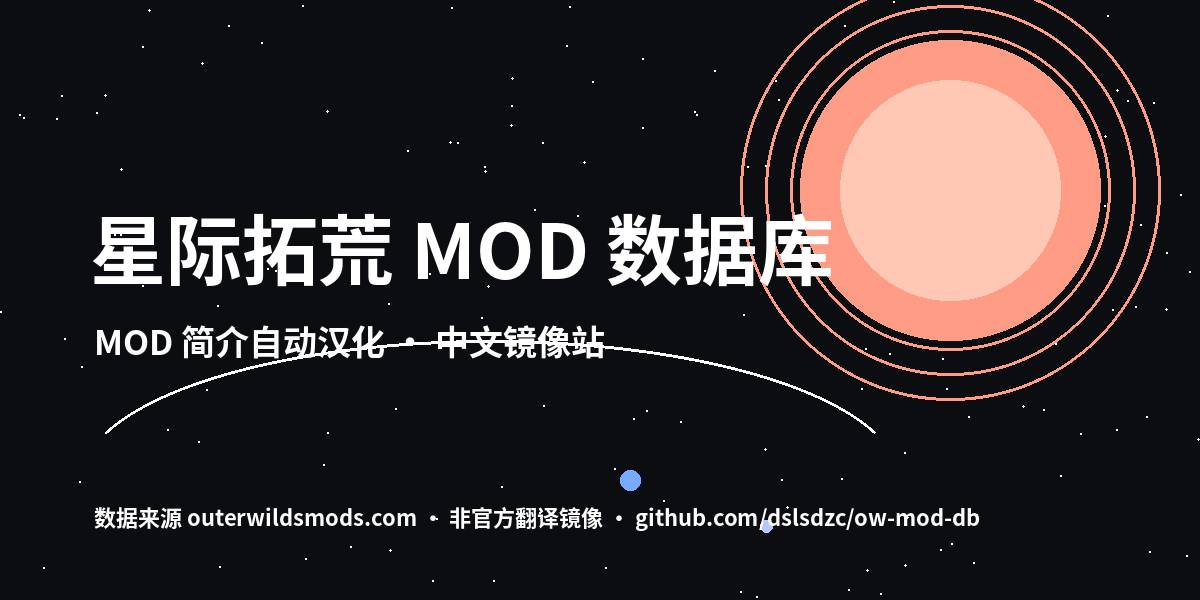
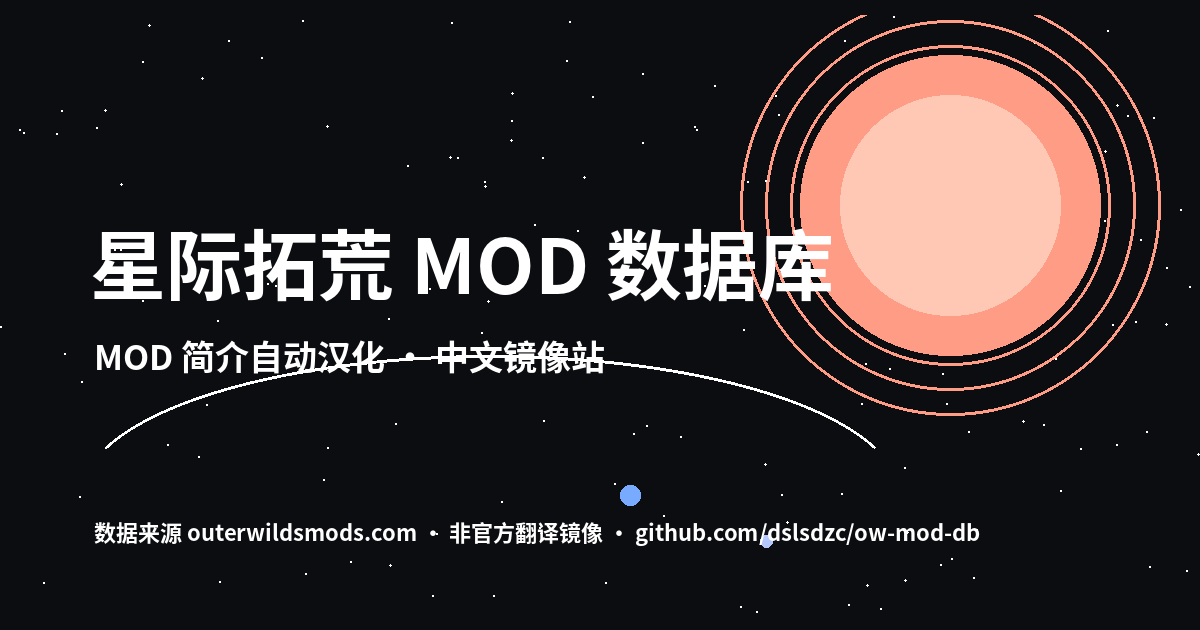
feat: 分享卡片补全(og:site_name/locale/twitter 显式标签/JSON-LD/1200x630 og.png)与详情页分享按钮

diff --git a/site/js/app.js b/site/js/app.js
@@ -715,6 +715,26 @@ function initReadme(mod) {
   })();
 }
 
+function initShare(mod) {
+  const btn = document.getElementById("share-btn");
+  if (!btn) return;
+  const label = btn.textContent;
+  btn.addEventListener("click", async () => {
+    const url = location.href.split("#")[0];
+    const title = `${mod.name} — 星际拓荒 MOD 数据库`;
+    if (navigator.share) {
+      try { await navigator.share({ title, url }); return; } catch (e) { /* 取消或失败则走复制 */ }
+    }
+    try {
+      await navigator.clipboard.writeText(url);
+      btn.textContent = window.t ? t("detail.copied") : "已复制链接";
+      setTimeout(() => { btn.textContent = label; }, 2000);
+    } catch (e) {
+      window.prompt(window.t ? t("detail.share") : "分享", url);
+    }
+  });
+}
+
 function renderDetail(mods) {
   const params = new URLSearchParams(location.search);
   const pathHit = location.pathname.match(/\/mod\/([^/]+)\.html$/);
@@ -750,6 +770,7 @@ function renderDetail(mods) {
       </div>
       <div class="buttons-second">
         ${mod.slug ? `<a class="secondary" href="https://outerwildsmods.com/mods/${encodeURIComponent(mod.slug)}/downloads/#downloads" target="_blank" rel="noopener">下载统计</a>` : ""}
+        <button class="secondary" type="button" id="share-btn">${window.t ? t("detail.share") : "分享"}</button>
         <a class="secondary" href="${reportUrl}" target="_blank" rel="noopener">${window.t ? t("detail.reportIssue") : "报告翻译问题"}</a>
       </div>
       ${mod.description ? `<div class="section"><h3>简介</h3><div class="readme" id="desc-md"></div></div>` : ""}
@@ -790,6 +811,7 @@ function renderDetail(mods) {
   initReleases(mod);
   initPatchBlock(mod);
   initComments(mod);
+  initShare(mod);
 }
 
 (function initToTop() {

diff --git a/site/index.html b/site/index.html
@@ -4,10 +4,23 @@
 <meta charset="utf-8">
 <meta name="viewport" content="width=device-width, initial-scale=1">
 <link rel="icon" href="favicon.svg" type="image/svg+xml">
+<!-- OG:START -->
+<meta property="og:site_name" content="星际拓荒 MOD 数据库">
+<meta property="og:locale" content="zh_CN">
 <meta property="og:title" content="星际拓荒 MOD 数据库">
-<meta property="og:description" content="413 个 MOD 简介自动汉化 · 中文镜像站">
-<meta property="og:image" content="https://dslsdzc.github.io/ow-mod-db/og.png">
+<meta property="og:description" content="星际拓荒 MOD 简介、更新说明与 README 自动汉化的中文镜像站,可配合 OWMM 一键安装。">
 <meta property="og:type" content="website">
+<meta property="og:url" content="https://dslsdzc.github.io/ow-mod-db/">
+<meta property="og:image" content="https://dslsdzc.github.io/ow-mod-db/og.png">
+<meta property="og:image:width" content="1200">
+<meta property="og:image:height" content="630">
+<meta property="og:image:alt" content="星际拓荒 MOD 数据库">
+<meta name="twitter:card" content="summary_large_image">
+<meta name="twitter:title" content="星际拓荒 MOD 数据库">
+<meta name="twitter:description" content="星际拓荒 MOD 简介、更新说明与 README 自动汉化的中文镜像站,可配合 OWMM 一键安装。">
+<meta name="twitter:image" content="https://dslsdzc.github.io/ow-mod-db/og.png">
+<link rel="canonical" href="https://dslsdzc.github.io/ow-mod-db/">
+<!-- OG:END -->
 <title>星际拓荒 MOD 数据库</title>
 <script type="speculationrules">
 {"prerender":[{"where":{"href_matches":["./mod.html*","./mod/*"]},"eagerness":"moderate"}]}

diff --git a/site/mods.html b/site/mods.html
@@ -4,9 +4,23 @@
 <meta charset="utf-8">
 <meta name="viewport" content="width=device-width, initial-scale=1">
 <link rel="icon" href="favicon.svg" type="image/svg+xml">
+<!-- OG:START -->
+<meta property="og:site_name" content="星际拓荒 MOD 数据库">
+<meta property="og:locale" content="zh_CN">
 <meta property="og:title" content="全部 MOD — 星际拓荒 MOD 数据库">
-<meta property="og:image" content="https://dslsdzc.github.io/ow-mod-db/og.png">
+<meta property="og:description" content="浏览全部星际拓荒 MOD:热度与更新时间排序,支持中英文名称搜索与标签筛选。">
 <meta property="og:type" content="website">
+<meta property="og:url" content="https://dslsdzc.github.io/ow-mod-db/mods.html">
+<meta property="og:image" content="https://dslsdzc.github.io/ow-mod-db/og.png">
+<meta property="og:image:width" content="1200">
+<meta property="og:image:height" content="630">
+<meta property="og:image:alt" content="星际拓荒 MOD 数据库">
+<meta name="twitter:card" content="summary_large_image">
+<meta name="twitter:title" content="全部 MOD — 星际拓荒 MOD 数据库">
+<meta name="twitter:description" content="浏览全部星际拓荒 MOD:热度与更新时间排序,支持中英文名称搜索与标签筛选。">
+<meta name="twitter:image" content="https://dslsdzc.github.io/ow-mod-db/og.png">
+<link rel="canonical" href="https://dslsdzc.github.io/ow-mod-db/mods.html">
+<!-- OG:END -->
 <title>全部 MOD — 星际拓荒 MOD 数据库</title>
 <script type="speculationrules">
 {"prerender":[{"where":{"href_matches":["./mod.html*","./mod/*"]},"eagerness":"moderate"}]}

diff --git a/site/jams.html b/site/jams.html
@@ -4,9 +4,23 @@
 <meta charset="utf-8">
 <meta name="viewport" content="width=device-width, initial-scale=1">
 <link rel="icon" href="favicon.svg" type="image/svg+xml">
+<!-- OG:START -->
+<meta property="og:site_name" content="星际拓荒 MOD 数据库">
+<meta property="og:locale" content="zh_CN">
 <meta property="og:title" content="历届 Game Jam — 星际拓荒 MOD 数据库">
-<meta property="og:image" content="https://dslsdzc.github.io/ow-mod-db/og.png">
+<meta property="og:description" content="历届星际拓荒 Game Jam 作品聚合与中文介绍,内含 2026 Game Jam 信息页。">
 <meta property="og:type" content="website">
+<meta property="og:url" content="https://dslsdzc.github.io/ow-mod-db/jams.html">
+<meta property="og:image" content="https://dslsdzc.github.io/ow-mod-db/og.png">
+<meta property="og:image:width" content="1200">
+<meta property="og:image:height" content="630">
+<meta property="og:image:alt" content="星际拓荒 MOD 数据库">
+<meta name="twitter:card" content="summary_large_image">
+<meta name="twitter:title" content="历届 Game Jam — 星际拓荒 MOD 数据库">
+<meta name="twitter:description" content="历届星际拓荒 Game Jam 作品聚合与中文介绍,内含 2026 Game Jam 信息页。">
+<meta name="twitter:image" content="https://dslsdzc.github.io/ow-mod-db/og.png">
+<link rel="canonical" href="https://dslsdzc.github.io/ow-mod-db/jams.html">
+<!-- OG:END -->
 <title>历届 Game Jam — 星际拓荒 MOD 数据库</title>
 <script type="speculationrules">
 {"prerender":[{"where":{"href_matches":["./mod.html*","./mod/*"]},"eagerness":"moderate"}]}

diff --git a/site/mod.html b/site/mod.html
@@ -4,9 +4,23 @@
 <meta charset="utf-8">
 <meta name="viewport" content="width=device-width, initial-scale=1">
 <link rel="icon" href="favicon.svg" type="image/svg+xml">
+<!-- OG:START -->
+<meta property="og:site_name" content="星际拓荒 MOD 数据库">
+<meta property="og:locale" content="zh_CN">
 <meta property="og:title" content="MOD 详情 — 星际拓荒 MOD 数据库">
-<meta property="og:image" content="https://dslsdzc.github.io/ow-mod-db/og.png">
+<meta property="og:description" content="星际拓荒 MOD 详情:中文简介、版本历史、README 与一键安装。">
 <meta property="og:type" content="website">
+<meta property="og:url" content="https://dslsdzc.github.io/ow-mod-db/mods.html">
+<meta property="og:image" content="https://dslsdzc.github.io/ow-mod-db/og.png">
+<meta property="og:image:width" content="1200">
+<meta property="og:image:height" content="630">
+<meta property="og:image:alt" content="星际拓荒 MOD 数据库">
+<meta name="twitter:card" content="summary_large_image">
+<meta name="twitter:title" content="MOD 详情 — 星际拓荒 MOD 数据库">
+<meta name="twitter:description" content="星际拓荒 MOD 详情:中文简介、版本历史、README 与一键安装。">
+<meta name="twitter:image" content="https://dslsdzc.github.io/ow-mod-db/og.png">
+<link rel="canonical" href="https://dslsdzc.github.io/ow-mod-db/mods.html">
+<!-- OG:END -->
 <title>MOD 详情 — 星际拓荒 MOD 数据库</title>
 <script type="speculationrules">
 {"prerender":[{"where":{"href_matches":["./mod.html*","./mod/*"]},"eagerness":"moderate"}]}

diff --git a/site/mod-manager.html b/site/mod-manager.html
@@ -4,9 +4,23 @@
 <meta charset="utf-8">
 <meta name="viewport" content="width=device-width, initial-scale=1">
 <link rel="icon" href="favicon.svg" type="image/svg+xml">
+<!-- OG:START -->
+<meta property="og:site_name" content="星际拓荒 MOD 数据库">
+<meta property="og:locale" content="zh_CN">
 <meta property="og:title" content="Mod Manager — 星际拓荒 MOD 数据库">
-<meta property="og:image" content="https://dslsdzc.github.io/ow-mod-db/og.png">
+<meta property="og:description" content="Outer Wilds Mod Manager(OWMM)使用指南与下载。">
 <meta property="og:type" content="website">
+<meta property="og:url" content="https://dslsdzc.github.io/ow-mod-db/mod-manager.html">
+<meta property="og:image" content="https://dslsdzc.github.io/ow-mod-db/og.png">
+<meta property="og:image:width" content="1200">
+<meta property="og:image:height" content="630">
+<meta property="og:image:alt" content="星际拓荒 MOD 数据库">
+<meta name="twitter:card" content="summary_large_image">
+<meta name="twitter:title" content="Mod Manager — 星际拓荒 MOD 数据库">
+<meta name="twitter:description" content="Outer Wilds Mod Manager(OWMM)使用指南与下载。">
+<meta name="twitter:image" content="https://dslsdzc.github.io/ow-mod-db/og.png">
+<link rel="canonical" href="https://dslsdzc.github.io/ow-mod-db/mod-manager.html">
+<!-- OG:END -->
 <title>Mod Manager — 星际拓荒 MOD 数据库</title>
 <link rel="preconnect" href="https://ow-mods.github.io">
 <link rel="stylesheet" href="css/style.css">

diff --git a/site/css/style.css b/site/css/style.css
@@ -74,10 +74,10 @@ section h2 { font-size: 1.25rem; margin: 2rem 0 1rem; }
                      white-space: nowrap; }   /* 按钮文字不折行,整体换行 */
 .detail .buttons a.secondary { background: rgba(255,255,255,.12); color: #fff; }
 .buttons-second { display: flex; margin-top: .5rem; }
-.buttons-second a { padding: .35rem .9rem; border-radius: 6px; text-decoration: none;
+.buttons-second a, .buttons-second button { padding: .35rem .9rem; border-radius: 6px; text-decoration: none;
                     background: rgba(255,255,255,.07); color: rgba(255,255,255,.75); font-size: .85rem;
-                    border: 1px solid rgba(255,255,255,.15); }
-.buttons-second a:hover { border-color: #ff9c86; color: #fff; }
+                    border: 1px solid rgba(255,255,255,.15); cursor: pointer; font-family: inherit; }
+.buttons-second a:hover, .buttons-second button:hover { border-color: #ff9c86; color: #fff; }
 .detail .section { border: 1px solid rgba(255,255,255,.12); border-radius: 10px;
                    padding: 1rem 1.25rem; margin-top: 1.25rem; background: rgba(255,255,255,.04); }
 .detail .section h3 { margin: 0 0 .5rem; font-size: 1rem; }

diff --git a/site/js/i18n.js b/site/js/i18n.js
@@ -36,6 +36,8 @@ window.I18N = {
     "mods.count": "{n} / {m} 个 MOD",
     "mods.none": "没有匹配的 MOD",
     "detail.reportIssue": "报告翻译问题",
+    "detail.share": "分享",
+    "detail.copied": "已复制链接",
     "meta.downloads": "{n} 次下载",
     "meta.updatedAt": "更新于 {d}",
     "jams.title": "历届 Game Jam",
@@ -75,6 +77,8 @@ window.I18N = {
     "mods.count": "{n} / {m} 個のMOD",
     "mods.none": "該当するMODがありません",
     "detail.reportIssue": "翻訳の問題を報告",
+    "detail.share": "共有",
+    "detail.copied": "リンクをコピーしました",
     "meta.downloads": "{n} 回DL",
     "meta.updatedAt": "更新 {d}",
     "jams.title": "歴代 Game Jam",

diff --git a/scripts/build.py b/scripts/build.py
@@ -125,10 +125,65 @@ def deploy_site(site_dir: Path, dist_dir: Path) -> None:
 _MOD_PAGE_MARKERS = (
     '<meta name="viewport" content="width=device-width, initial-scale=1">',
     "<title>MOD 详情 — 星际拓荒 MOD 数据库</title>",
-    '<meta property="og:title" content="MOD 详情 — 星际拓荒 MOD 数据库">',
-    f'<meta property="og:image" content="{SITE_URL}/og.png">',
+    "<!-- OG:START -->",
+    "<!-- OG:END -->",
     '<main id="detail"></main>',
 )
+
+
+def meta_block(*, title: str, description: str, url: str, image: str, image_alt: str,
+               image_size: tuple[int, int] | None = None) -> str:
+    """OG/Twitter 卡片与 canonical 的完整元数据块。
+
+    依据 2026 各平台现状: og:* 为主, 显式 twitter:title/description/image(X 的 og 回退不稳);
+    image_size 仅在尺寸确知(站点自有的 1200x630 og.png)时声明, 避免错误标注作者缩略图。
+    """
+    lines = [
+        "<!-- OG:START -->",
+        '<meta property="og:site_name" content="星际拓荒 MOD 数据库">',
+        '<meta property="og:locale" content="zh_CN">',
+        f'<meta property="og:title" content="{html_escape(title)}">',
+        f'<meta property="og:description" content="{html_escape(description)}">',
+        '<meta property="og:type" content="website">',
+        f'<meta property="og:url" content="{html_escape(url)}">',
+        f'<meta property="og:image" content="{html_escape(image)}">',
+    ]
+    if image_size:
+        lines += [f'<meta property="og:image:width" content="{image_size[0]}">',
+                  f'<meta property="og:image:height" content="{image_size[1]}">']
+    lines += [
+        f'<meta property="og:image:alt" content="{html_escape(image_alt)}">',
+        '<meta name="twitter:card" content="summary_large_image">',
+        f'<meta name="twitter:title" content="{html_escape(title)}">',
+        f'<meta name="twitter:description" content="{html_escape(description)}">',
+        f'<meta name="twitter:image" content="{html_escape(image)}">',
+        f'<link rel="canonical" href="{html_escape(url)}">',
+        "<!-- OG:END -->",
+    ]
+    return "\n".join(lines)
+
+
+def mod_jsonld(*, name: str, author: str, version: str, download_url: str,
+               page_url: str, image: str) -> str:
+    """静态详情页的结构化数据(schema.org SoftwareApplication)。"""
+    data: dict = {
+        "@context": "https://schema.org",
+        "@type": "SoftwareApplication",
+        "name": name,
+        "applicationCategory": "GameApplication",
+        "operatingSystem": "Windows, macOS, Linux",
+        "url": page_url,
+    }
+    if author:
+        data["author"] = {"@type": "Organization", "name": author}
+    if version:
+        data["softwareVersion"] = version
+    if download_url:
+        data["downloadUrl"] = download_url
+    if image:
+        data["image"] = image
+    text = json.dumps(data, ensure_ascii=False).replace("</", "<\\/")
+    return f'<script type="application/ld+json">{text}</script>'
 
 
 def mod_page_filename(unique_name: str) -> str:
@@ -165,7 +220,7 @@ def build_mod_pages(template: str, mods: list[dict], translations: dict, dist: P
                     if thumb else f"{site_url}/og.png")
         page_url = f"{site_url}/{MOD_PAGE_DIR}/{quote(mod.get('uniqueName') or '')}.html"
         title = f"{name} — 星际拓荒 MOD 数据库"
-        lead = desc[:140] + ("…" if len(desc) > 140 else "")
+        lead = (desc[:140] + ("…" if len(desc) > 140 else "")) if desc else f"星际拓荒 MOD:{name}"
         meta_line = f"{author} · v{version}" if version else author
 
         html = template
@@ -174,13 +229,15 @@ def build_mod_pages(template: str, mods: list[dict], translations: dict, dist: P
             '<meta name="viewport" content="width=device-width, initial-scale=1">\n<base href="../">', 1)
         html = html.replace("<title>MOD 详情 — 星际拓荒 MOD 数据库</title>",
                             f"<title>{html_escape(title)}</title>", 1)
-        html = html.replace('<meta property="og:title" content="MOD 详情 — 星际拓荒 MOD 数据库">',
-                            f'<meta property="og:title" content="{html_escape(title)}">', 1)
-        html = html.replace(f'<meta property="og:image" content="{site_url}/og.png">',
-                            f'<meta property="og:image" content="{html_escape(og_image)}">\n'
-                            f'<meta property="og:description" content="{html_escape(lead)}">\n'
-                            f'<meta property="og:url" content="{html_escape(page_url)}">\n'
-                            f'<link rel="canonical" href="{html_escape(page_url)}">', 1)
+        block = meta_block(
+            title=title, description=lead, url=page_url, image=og_image,
+            image_alt=f"{name} 的缩略图" if thumb else "星际拓荒 MOD 数据库",
+            image_size=None if thumb else (1200, 630))
+        block += "\n" + mod_jsonld(
+            name=name, author=author, version=version,
+            download_url=str(out.get("downloadUrl") or ""), page_url=page_url, image=og_image)
+        html = re.sub(r"<!-- OG:START -->.*?<!-- OG:END -->",
+                      lambda _m, b=block: b, html, count=1, flags=re.S)
         # 静态页之间不预渲染; 预渲染规则由根页面覆盖"列表 -> 详情"主路径
         html = re.sub(r'<script type="speculationrules">.*?</script>\n', "", html, count=1, flags=re.S)
         static_body = (

diff --git a/scripts/test/test_build.py b/scripts/test/test_build.py
@@ -96,6 +96,9 @@ def test_build_mod_pages_generates_seo_pages(tmp_path):
     assert '<base href="../">' in page
     assert "OWML 的模组加载器" in page                     # 中文简介进静态正文
     assert 'rel="canonical"' in page and "/mod/Alek.OWML.html" in page
+    assert 'property="og:site_name"' in page
+    assert 'name="twitter:card"' in page                   # X 大图卡片
+    assert "application/ld+json" in page                   # 结构化数据
     assert "speculationrules" not in page                  # 静态页不放预渲染规则
     assert "返回全部 MOD" in page
     assert 'id="detail"' in page

diff --git a/scripts/test/test_site_smoke.py b/scripts/test/test_site_smoke.py
@@ -122,6 +122,7 @@ def test_detail_ux_markers():
     assert "issues/new?template=translation.md" in js    # 报告翻译问题入口
     assert "searchTimer" in js                            # 搜索防抖
     assert 'img.loading = "lazy"' in js                   # README 图片懒加载
+    assert "navigator.share" in js and "share-btn" in js  # 分享按钮(Web Share + 复制兜底)
     tmpl = REPO_ROOT / ".github" / "ISSUE_TEMPLATE" / "translation.md"
     assert tmpl.exists()                                  # issue 模板
 

diff --git a/e2e/test_site.py b/e2e/test_site.py
@@ -49,6 +49,7 @@ def test_static_detail_page_seo_tags(page, site_server):
     og_title = page.locator('meta[property="og:title"]').get_attribute("content") or ""
     assert "新地平线" in og_title
     page.wait_for_selector("#detail h1")
+    assert page.locator("#share-btn").count() == 1  # 分享按钮渲染
 
 
 def test_service_worker_registers_and_caches(page, site_server):
